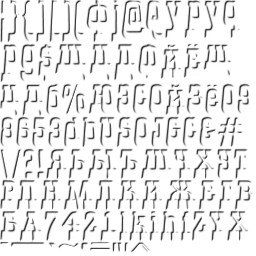
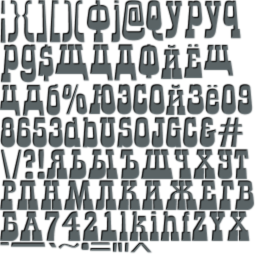
Skin and GUI are finished

diff --git a/SortItOut/src/com/me/sortitout/GameScreen.java b/SortItOut/src/com/me/sortitout/GameScreen.java
@@ -5,10 +5,9 @@ import com.badlogic.gdx.Gdx;
 import com.badlogic.gdx.InputMultiplexer;
 import com.badlogic.gdx.Screen;
 import com.badlogic.gdx.Input.Keys;
+import com.badlogic.gdx.Input.Peripheral;
 import com.badlogic.gdx.graphics.GL10;
 import com.badlogic.gdx.graphics.OrthographicCamera;
-import com.badlogic.gdx.graphics.Texture;
-import com.badlogic.gdx.graphics.g2d.Sprite;
 import com.badlogic.gdx.graphics.g2d.SpriteBatch;
 import com.badlogic.gdx.input.GestureDetector;
 import com.badlogic.gdx.physics.box2d.Box2DDebugRenderer;
@@ -19,6 +18,8 @@ import com.badlogic.gdx.scenes.scene2d.ui.Image;
 import com.badlogic.gdx.scenes.scene2d.ui.Label;
 import com.badlogic.gdx.scenes.scene2d.ui.Skin;
 import com.badlogic.gdx.scenes.scene2d.ui.Table;
+import com.badlogic.gdx.scenes.scene2d.ui.Widget;
+import com.badlogic.gdx.scenes.scene2d.utils.ClickListener;
 
 public class GameScreen implements Screen {
 
@@ -36,7 +37,6 @@ public class GameScreen implements Screen {
 	private Dialog gameOverDialog;
 	private Label label1;
 	private Label label2;
-	private Sprite BackSprite;
 	
 	public GameScreen(ApplicationHandler applicationHandler) {
 		appHandler = applicationHandler;
@@ -50,20 +50,27 @@ public class GameScreen implements Screen {
 	    //
 	    stage.addActor(gameScene);
 	    skin = new Skin(Gdx.files.internal("data/skin.json"));
-	    skin.add("background", new Texture("textures/bubble1.png"));
 	    gameScene.setFillParent(true);
 	    gameScene.bottom();
-	    final Button button1 = new Button(skin);
-	    final Button button2 = new Button(skin);
-	    final Button button3 = new Button(skin);
+	    final Button buttonAudio = new Button(skin, "button-snd");
+	    final Button buttonGravity = new Button(skin, "button-gra");
+	    final Button buttonExit = new Button(skin, "button-exit");
+	    if (!Gdx.input.isPeripheralAvailable(Peripheral.Accelerometer)){
+	    	buttonGravity.setDisabled(true);
+	    } else {	    	
+	    	game.setAccelerometer(true);
+	    }
 	    gameOverDialog = new Dialog("", skin, "default") {
 						protected void result (Object obj) {
 							if (obj.equals(true)){
+								game.ButtonSound.play();
 								game.Shuffle();
 								Gdx.input.setInputProcessor(multiplexer);
 								accelerometer = true;
 								label1.setVisible(true);
 							} else {
+								game.ButtonSound.play();
+								gameOverDialog.hide();
 								appHandler.showMenu();
 							}
 						}
@@ -71,13 +78,39 @@ public class GameScreen implements Screen {
 		label1 = new Label("", skin);
 		label2 = new Label("", skin);
 		gameScene.add(gameControls).center();
-		gameControls.add(label1).width(GameObject.BLOCK_SIZE*game.BOX_TO_WORLD).height(GameObject.BLOCK_HALF*game.BOX_TO_WORLD);
-		gameControls.add(button1).width(GameObject.BLOCK_HALF*game.BOX_TO_WORLD).height(GameObject.BLOCK_HALF*game.BOX_TO_WORLD);;
-		gameControls.add(button2).width(GameObject.BLOCK_HALF*game.BOX_TO_WORLD).height(GameObject.BLOCK_HALF*game.BOX_TO_WORLD);;
-		gameControls.add(button3).width(GameObject.BLOCK_HALF*game.BOX_TO_WORLD).height(GameObject.BLOCK_HALF*game.BOX_TO_WORLD);;
-		gameControls.add(label2).width(GameObject.BLOCK_SIZE*game.BOX_TO_WORLD).height(GameObject.BLOCK_HALF*game.BOX_TO_WORLD);
+		gameControls.add(label1).width(game.BLOCK_SIZE_PIX).height(game.BLOCK_HALF_PIX);
+		gameControls.add(buttonAudio).width(game.BLOCK_HALF_PIX).height(game.BLOCK_HALF_PIX);;
+		gameControls.add(buttonGravity).width(game.BLOCK_HALF_PIX).height(game.BLOCK_HALF_PIX);;
+		gameControls.add(buttonExit).width(game.BLOCK_HALF_PIX).height(game.BLOCK_HALF_PIX);;
+		gameControls.add(label2).width(game.BLOCK_SIZE_PIX).height(game.BLOCK_HALF_PIX);
 		gameScene.row();
-		gameScene.add(new Image(skin.getDrawable("button-disabled"))).width(game.getScreenWidth()).height(game.getScreenWidth());
+		gameScene.add(new Widget()).minHeight(game.BLOCK_HALF_PIX).maxHeight(game.BLOCK_HALF_PIX);
+		gameScene.row();
+		gameScene.add(new Image(skin.getDrawable("empty"))).width(game.getScreenWidth()).height(game.getScreenWidth());
+		
+		buttonAudio.addListener(new ClickListener() {
+    		public void clicked(com.badlogic.gdx.scenes.scene2d.InputEvent event, float x, float y) {
+    			//super.touchDown(event, x, y, pointer, button);
+    			game.ButtonSound.play();
+    			if (buttonAudio.isChecked()){
+
+    			}
+        	}
+    	});
+		buttonGravity.addListener(new ClickListener() {
+			public void clicked(com.badlogic.gdx.scenes.scene2d.InputEvent event, float x, float y) {
+			//super.touchDown(event, x, y, pointer, button);
+				game.ButtonSound.play();
+				game.setAccelerometer(!buttonGravity.isChecked());
+    		}
+		});
+		buttonExit.addListener(new ClickListener() {
+			public void clicked(com.badlogic.gdx.scenes.scene2d.InputEvent event, float x, float y) {
+			//super.touchDown(event, x, y, pointer, button);
+				game.ButtonSound.play();
+				appHandler.showMenu();
+			}
+		});
 		
 		/*ShaderProgram.pedantic = true;
 		shader = new ShaderProgram(Gdx.files.internal("shaders/simple1.vert"),
@@ -109,14 +142,19 @@ public class GameScreen implements Screen {
 	@Override
 	public void render(float delta) {
 		
+		game.WorldStep(delta);
+		
+		label1.setText(game.getTime());
+		label2.setText(String.valueOf(game.getMoves()));
+		stage.act(Gdx.graphics.getDeltaTime());
+		
 		Gdx.gl.glClearColor(220, 220, 220, 1);
 		Gdx.gl.glClear(GL10.GL_COLOR_BUFFER_BIT);
 		batch.setProjectionMatrix(camera.combined);
-
+		
 		//Table.drawDebug(stage);
-
 		batch.begin();
-		skin.getTiledDrawable("background").draw(batch, 0, 0, stage.getWidth(), stage.getHeight());
+		//skin.getTiledDrawable("background").draw(batch, 0, 0, stage.getWidth(), stage.getHeight());
 		//drawing blocks
 		Item item;
 		ArrayList<Item> cItemList;
@@ -131,13 +169,8 @@ public class GameScreen implements Screen {
 		}
 		//font.draw(batch, (Float.toString(1/delta).substring(0, 4)), 100, 550);
 		batch.end();
-		
-		label1.setText(game.getTime());
-		label2.setText(String.valueOf(game.getMoves()));
-		stage.act(Gdx.graphics.getDeltaTime());
-		
+	
 		stage.draw();
-        game.WorldStep(delta);
 	}
 
 	@Override

diff --git a/SortItOut/src/com/me/sortitout/MenuScreen.java b/SortItOut/src/com/me/sortitout/MenuScreen.java
@@ -4,7 +4,6 @@ import com.badlogic.gdx.Gdx;
 import com.badlogic.gdx.Input.Keys;
 import com.badlogic.gdx.Screen;
 import com.badlogic.gdx.audio.Music;
-import com.badlogic.gdx.audio.Sound;
 import com.badlogic.gdx.graphics.GL10;
 import com.badlogic.gdx.graphics.Texture;
 import com.badlogic.gdx.scenes.scene2d.InputEvent;
@@ -23,9 +22,8 @@ public class MenuScreen implements Screen {
 	private Stage stage;
 	private ApplicationHandler appHandler;
 	private Dialog exitDialog;
-	public boolean isActive = false;
+	private TextButton buttonContinue;
 	private Music menuMusic = Gdx.audio.newMusic(Gdx.files.internal("music/menu.mp3"));
-	private Sound ButtonSound = Gdx.audio.newSound(Gdx.files.internal("sounds/button.wav"));
 	
 	public MenuScreen(ApplicationHandler applicationHandler) {
 		appHandler = applicationHandler;
@@ -51,6 +49,8 @@ public class MenuScreen implements Screen {
 					protected void result (Object obj) {
 						if (obj.equals(true)){
 							Gdx.app.exit();
+						}else {
+							appHandler.getGameObject().ButtonSound.play();
 						}
 					}
 				}.text("Are you sure?").button("Exit", true).button("Back", false).key(Keys.ENTER, true)
@@ -58,17 +58,18 @@ public class MenuScreen implements Screen {
 	        final TextButton button1 = new TextButton("New game", skin);
 	        final Widget widget1 = new Widget();
 	        final TextButton button2 = new TextButton("Continue", skin);
+	        buttonContinue = button2;
 	        button2.setDisabled(true);
 	        final TextButton button3 = new TextButton("Exit", skin);
-	        table.add(button1).minWidth(250).maxHeight(70);
+	        table.add(button1).minWidth(250).maxHeight(80);
 	        table.row();
 	        table.add(widget1);
 	        table.row();
-	        table.add(button2).minWidth(250).maxHeight(70);
+	        table.add(button2).minWidth(250).maxHeight(80);
 	        table.row();
 	        table.add(widget1);
 	        table.row();
-	        table.add(button3).minWidth(250).maxHeight(70);
+	        table.add(button3).minWidth(250).maxHeight(80);
 	        // Add widgets to the table here.
 
 	        button1.addListener(new ClickListener() {
@@ -76,7 +77,7 @@ public class MenuScreen implements Screen {
 	        			//super.touchDown(event, x, y, pointer, button);
 	        			appHandler.getGameObject().Shuffle();
 	        			button2.setDisabled(false);
-	        			ButtonSound.play();
+	        			appHandler.getGameObject().ButtonSound.play();
 	        			appHandler.showGame();
 	            	}
 	        	});
@@ -84,7 +85,7 @@ public class MenuScreen implements Screen {
         		public void clicked(com.badlogic.gdx.scenes.scene2d.InputEvent event, float x, float y) {
         			//super.touchDown(event, x, y, pointer, button);
         			if (!button2.isDisabled()) {
-        				ButtonSound.play();
+        				appHandler.getGameObject().ButtonSound.play();
         				appHandler.showGame();
         			}
             	}
@@ -92,7 +93,7 @@ public class MenuScreen implements Screen {
 	        button3.addListener(new ClickListener() {
 	        	public void clicked(com.badlogic.gdx.scenes.scene2d.InputEvent event, float x, float y) {
         			//super.touchDown(event, x, y, pointer, button);
-	        		ButtonSound.play();
+	        		appHandler.getGameObject().ButtonSound.play();
 	        		exitDialog.show(stage);
             	}
         	});
@@ -113,7 +114,6 @@ public class MenuScreen implements Screen {
 
 	public void dispose() {
 	        stage.dispose();
-	        isActive = false;
 	}
 
 	@Override
@@ -128,6 +128,7 @@ public class MenuScreen implements Screen {
 	@Override
 	public void show() {
 		Gdx.input.setInputProcessor(stage);
+		buttonContinue.setDisabled(!appHandler.getGameObject().isActive());
 		menuMusic.play();
 	}
 
@@ -138,14 +139,12 @@ public class MenuScreen implements Screen {
 
 	@Override
 	public void pause() {
-		// TODO Auto-generated method stub
-		
+		// TODO Auto-generated method stub		
 	}
 
 	@Override
 	public void resume() {
 		// TODO Auto-generated method stub
-		
 	}
 
 }

diff --git a/SortItOut/src/com/me/sortitout/GameObject.java b/SortItOut/src/com/me/sortitout/GameObject.java
@@ -3,7 +3,6 @@ package com.me.sortitout;
 import java.util.ArrayList;
 import java.util.Collections;
 import com.badlogic.gdx.Gdx;
-import com.badlogic.gdx.Input.Peripheral;
 import com.badlogic.gdx.audio.Sound;
 import com.badlogic.gdx.graphics.g2d.Sprite;
 import com.badlogic.gdx.graphics.g2d.TextureAtlas;
@@ -35,8 +34,11 @@ public class GameObject {
     //Variable
     float WORLD_TO_BOX;
 	float BOX_TO_WORLD;
+	float BLOCK_HALF_PIX;
+	float BLOCK_SIZE_PIX;
 	//
 	private boolean accelerometer = false;
+	private boolean active = false;
 	//Physics world bounds
 	private float startpointX = BLOCK_SIZE*0.1f;
 	private float startpointY = BLOCK_SIZE*0.1f;
@@ -57,6 +59,7 @@ public class GameObject {
 	Sound newPosSound = Gdx.audio.newSound(Gdx.files.internal("sounds/stuck.wav"));
 	Sound gameOverSound = Gdx.audio.newSound(Gdx.files.internal("sounds/tada.wav"));
 	Sound edgeSound = Gdx.audio.newSound(Gdx.files.internal("sounds/edge_hit.wav"));
+	Sound ButtonSound = Gdx.audio.newSound(Gdx.files.internal("sounds/button.wav"));
 	//Resources
 	public World world;
 	private TextureAtlas atlas;
@@ -76,7 +79,8 @@ public class GameObject {
 		//Scaling to screen
 		BOX_TO_WORLD = screenWidth/widthInMeters;
 		WORLD_TO_BOX = 1/BOX_TO_WORLD;
-		
+		BLOCK_HALF_PIX = BLOCK_HALF*BOX_TO_WORLD;
+		BLOCK_SIZE_PIX = BLOCK_SIZE*BOX_TO_WORLD;
 		BodyDef bodyDef = new BodyDef();
 		FixtureDef fixtureDef = new FixtureDef();
 		PolygonShape polygonShape = new PolygonShape();
@@ -129,7 +133,6 @@ public class GameObject {
         contactHandler = new ContactHandler();
         contactHandler.Init(this);
         world.setContactListener(contactHandler);
-        accelerometer = Gdx.input.isPeripheralAvailable(Peripheral.Accelerometer);
         //Dispose disposable
         polygonShape.dispose();
 	}
@@ -196,6 +199,7 @@ public class GameObject {
 				good = true;
 			}
 		}
+		active = true;
 		startTimer();
 		return ShuffleCount;
 	}
@@ -204,7 +208,7 @@ public class GameObject {
 			float x = Gdx.input.getAccelerometerX();
 			float y = Gdx.input.getAccelerometerY();
 			Vector2 gVec2 = new Vector2((Math.abs(x)>3f) ? x : 0, Math.abs(y)>3f ? y : 0);
-			world.setGravity(gVec2.scl(5f*BLOCK_SIZE));
+			world.setGravity(gVec2.scl(-5f*BLOCK_SIZE));
 		}
 	}
 	public void WorldStep (float delta){
@@ -297,6 +301,14 @@ public class GameObject {
 	public void GameOver() {
 		// TODO Auto-generated method stub
 		gameOverSound.play();
+		active = false;
 		appHandler.getGameScreen().showDialog();
+	}
+	public void setAccelerometer(boolean a) {
+		this.accelerometer = a;
+		world.setGravity(new Vector2());
+	}
+	public boolean isActive() {
+		return active;
 	}
 }

diff --git a/SortItOut/src/com/me/sortitout/GestureHandler.java b/SortItOut/src/com/me/sortitout/GestureHandler.java
@@ -10,7 +10,6 @@ import com.badlogic.gdx.utils.GdxNativesLoader;
 
 public class GestureHandler implements GestureListener {
 	
-	private ApplicationHandler appHandler;
 	private GameObject gameObject;
 	//private float ScreenWidth; 
 	private float ScreenHeight;
@@ -18,14 +17,13 @@ public class GestureHandler implements GestureListener {
 	//OrthographicCamera camera;
 	public boolean Init(ApplicationHandler ahandler) {
 				
-		appHandler = ahandler;
 		gameObject = ahandler.getGameObject();
 		//ScreenWidth = gameObject.getScreenWidth();
 		ScreenHeight = gameObject.getScreenHeight();
 		//Loading native libraries
 		GdxNativesLoader.load();
 		tpointer = new Rectangle();
-		tpointer.width = GameObject.BLOCK_SIZE*gameObject.WORLD_TO_BOX;
+		tpointer.width = gameObject.BLOCK_SIZE_PIX;
 		tpointer.height = tpointer.width;
 		return true;
 	}
@@ -47,7 +45,6 @@ public class GestureHandler implements GestureListener {
 	@Override
 	public boolean longPress(float x, float y) {
 		// TODO Auto-generated method stub
-		appHandler.getGameScreen().showDialog();
 		return false;
 	}
 
